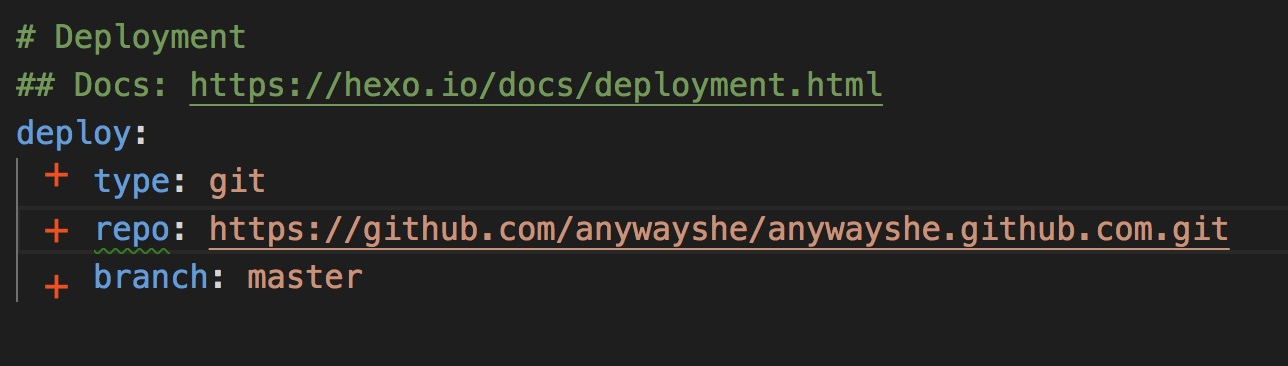
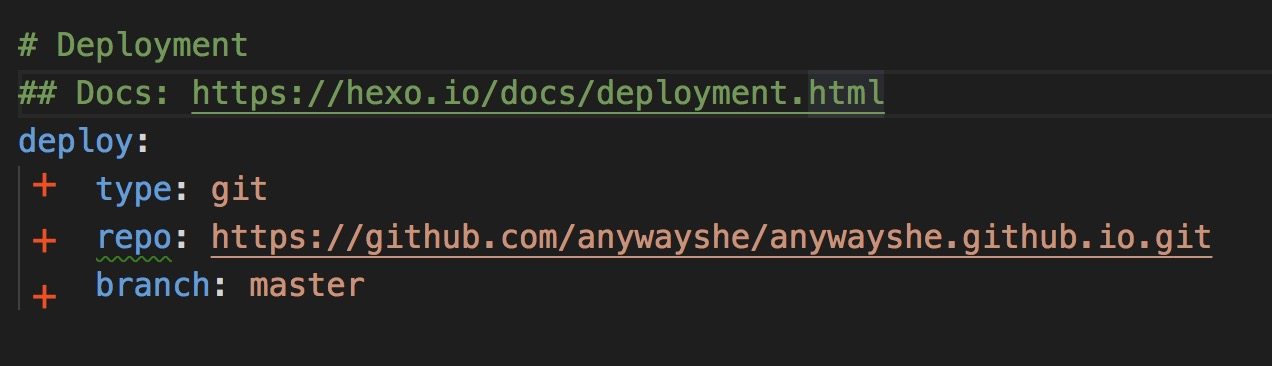
Site updated: 2019-07-09 14:42:01

diff --git a/2019/07/08/First/index.html b/2019/07/08/First/index.html
@@ -15,15 +15,13 @@
 <meta property="og:site_name" content="Hexo">
 <meta property="og:description" content="安装 Hexo1$ npm install -g hexo-cli  新建项目并启动 12345$ hexo init blog$ cd blog$ npm i$ hexo new &quot;我的第一篇博客&quot; // 新建markdown文件(source文件夹中的_post文件夹下)，编辑保存$ hexo s // hexo server 预览 本地访问localhost:4000  关联 github1">
 <meta property="og:locale" content="default">
-<meta property="og:image" content="http://yoursite.com/image/step1.jpg">
-<meta property="og:image" content="http://yoursite.com/image/step2.jpg">
 <meta property="og:image" content="http://yoursite.com/image/step3.jpg">
 <meta property="og:image" content="http://yoursite.com/image/step4.jpg">
-<meta property="og:updated_time" content="2019-07-09T02:12:16.100Z">
+<meta property="og:updated_time" content="2019-07-09T06:38:32.957Z">
 <meta name="twitter:card" content="summary">
 <meta name="twitter:title" content="GitHub+Hexo 搭建个人网站">
 <meta name="twitter:description" content="安装 Hexo1$ npm install -g hexo-cli  新建项目并启动 12345$ hexo init blog$ cd blog$ npm i$ hexo new &quot;我的第一篇博客&quot; // 新建markdown文件(source文件夹中的_post文件夹下)，编辑保存$ hexo s // hexo server 预览 本地访问localhost:4000  关联 github1">
-<meta name="twitter:image" content="http://yoursite.com/image/step1.jpg">
+<meta name="twitter:image" content="http://yoursite.com/image/step3.jpg">
   
     <link rel="alternative" href="/atom.xml" title="Hexo" type="application/atom+xml">
   
@@ -178,10 +176,9 @@
 <p>新建项目并启动</p>
 <figure class="highlight bash"><table><tr><td class="gutter"><pre><span class="line">1</span><br><span class="line">2</span><br><span class="line">3</span><br><span class="line">4</span><br><span class="line">5</span><br></pre></td><td class="code"><pre><span class="line">$ hexo init blog</span><br><span class="line">$ <span class="built_in">cd</span> blog</span><br><span class="line">$ npm i</span><br><span class="line">$ hexo new <span class="string">"我的第一篇博客"</span> // 新建markdown文件(<span class="built_in">source</span>文件夹中的_post文件夹下)，编辑保存</span><br><span class="line">$ hexo s // hexo server 预览 本地访问localhost:4000</span><br></pre></td></tr></table></figure>
 
-<h2 id="关联-github"><a href="#关联-github" class="headerlink" title="关联 github"></a>关联 github</h2><p>1、新建 GitHub 项目，命名 username.github.io, username 为你 Github 的用户名</p>
-<p><img src="/image/step1.jpg" alt="avatar"></p>
+<h2 id="关联-github"><a href="#关联-github" class="headerlink" title="关联 github"></a>关联 github</h2><p>1、新建 GitHub 项目，命名 username.github.io, username 为你 Github 的用户名，如 anywayshe.github.io<br>注：<font color="#FFD700">github 创建静态博客只能按照命名规则，且只有一个</font></p>
 <hr>
-<p><img src="/image/step2.jpg" alt="avatar"></p>
+<p>创建成功项目地址：<a href="https://github.com/anywayshe/anywayshe.github.io.git" target="_blank" rel="noopener">https://github.com/anywayshe/anywayshe.github.io.git</a></p>
 <p>2、安装 git 部署插件</p>
 <figure class="highlight bash"><table><tr><td class="gutter"><pre><span class="line">1</span><br></pre></td><td class="code"><pre><span class="line">$ npm install hexo-deployer-git --save</span><br></pre></td></tr></table></figure>
 
@@ -191,12 +188,18 @@
 <figure class="highlight bash"><table><tr><td class="gutter"><pre><span class="line">1</span><br><span class="line">2</span><br><span class="line">3</span><br></pre></td><td class="code"><pre><span class="line">$ haxo clean // 清除缓存文件 (db.json) 和已生成的静态文件 (public)</span><br><span class="line">$ haxo g // hexo generate 生成静态文件</span><br><span class="line">$ haxo d // hexo deploy 部署网站</span><br></pre></td></tr></table></figure>
 
 <p>5、访问网站</p>
-<p><a href="https://anywayshe.github.cn/#" target="_blank" rel="noopener">https://anywayshe.github.cn/#</a> // 新建项目的名字，有延迟，多刷几遍</p>
+<p>可以先刷新你的 github 仓库，看到本地代码已上传</p>
+<p><a href="https://anywayshe.github.io/#" target="_blank" rel="noopener">https://anywayshe.github.io/#</a> // 新建项目的名字，有延迟，多刷几遍</p>
 <p>6、切换主题</p>
 <p>以 yilia 为例</p>
 <figure class="highlight bash"><table><tr><td class="gutter"><pre><span class="line">1</span><br></pre></td><td class="code"><pre><span class="line">$ git <span class="built_in">clone</span> https://github.com/litten/hexo-theme-yilia.git themes/yilia // 克隆到themes文件夹，名为yilia</span><br></pre></td></tr></table></figure>
 
 <p>更改配置文件_config.yml<br><img src="/image/step4.jpg" alt="avatar"></p>
+<p>7、部署</p>
+<figure class="highlight bash"><table><tr><td class="gutter"><pre><span class="line">1</span><br><span class="line">2</span><br><span class="line">3</span><br></pre></td><td class="code"><pre><span class="line">$ haxo clean // 清除缓存文件 (db.json) 和已生成的静态文件 (public)</span><br><span class="line">$ haxo g // hexo generate 生成静态文件</span><br><span class="line">$ haxo d // hexo deploy 部署网站</span><br></pre></td></tr></table></figure>
+
+<p>8、刷新访问 ok</p>
+<p><a href="https://anywayshe.github.io/#" target="_blank" rel="noopener">https://anywayshe.github.io/#</a></p>
 
       
 

diff --git a/index.html b/index.html
@@ -171,10 +171,9 @@
 <p>新建项目并启动</p>
 <figure class="highlight bash"><table><tr><td class="gutter"><pre><span class="line">1</span><br><span class="line">2</span><br><span class="line">3</span><br><span class="line">4</span><br><span class="line">5</span><br></pre></td><td class="code"><pre><span class="line">$ hexo init blog</span><br><span class="line">$ <span class="built_in">cd</span> blog</span><br><span class="line">$ npm i</span><br><span class="line">$ hexo new <span class="string">"我的第一篇博客"</span> // 新建markdown文件(<span class="built_in">source</span>文件夹中的_post文件夹下)，编辑保存</span><br><span class="line">$ hexo s // hexo server 预览 本地访问localhost:4000</span><br></pre></td></tr></table></figure>
 
-<h2 id="关联-github"><a href="#关联-github" class="headerlink" title="关联 github"></a>关联 github</h2><p>1、新建 GitHub 项目，命名 username.github.io, username 为你 Github 的用户名</p>
-<p><img src="/image/step1.jpg" alt="avatar"></p>
+<h2 id="关联-github"><a href="#关联-github" class="headerlink" title="关联 github"></a>关联 github</h2><p>1、新建 GitHub 项目，命名 username.github.io, username 为你 Github 的用户名，如 anywayshe.github.io<br>注：<font color="#FFD700">github 创建静态博客只能按照命名规则，且只有一个</font></p>
 <hr>
-<p><img src="/image/step2.jpg" alt="avatar"></p>
+<p>创建成功项目地址：<a href="https://github.com/anywayshe/anywayshe.github.io.git" target="_blank" rel="noopener">https://github.com/anywayshe/anywayshe.github.io.git</a></p>
 <p>2、安装 git 部署插件</p>
 <figure class="highlight bash"><table><tr><td class="gutter"><pre><span class="line">1</span><br></pre></td><td class="code"><pre><span class="line">$ npm install hexo-deployer-git --save</span><br></pre></td></tr></table></figure>
 
@@ -184,12 +183,18 @@
 <figure class="highlight bash"><table><tr><td class="gutter"><pre><span class="line">1</span><br><span class="line">2</span><br><span class="line">3</span><br></pre></td><td class="code"><pre><span class="line">$ haxo clean // 清除缓存文件 (db.json) 和已生成的静态文件 (public)</span><br><span class="line">$ haxo g // hexo generate 生成静态文件</span><br><span class="line">$ haxo d // hexo deploy 部署网站</span><br></pre></td></tr></table></figure>
 
 <p>5、访问网站</p>
-<p><a href="https://anywayshe.github.cn/#" target="_blank" rel="noopener">https://anywayshe.github.cn/#</a> // 新建项目的名字，有延迟，多刷几遍</p>
+<p>可以先刷新你的 github 仓库，看到本地代码已上传</p>
+<p><a href="https://anywayshe.github.io/#" target="_blank" rel="noopener">https://anywayshe.github.io/#</a> // 新建项目的名字，有延迟，多刷几遍</p>
 <p>6、切换主题</p>
 <p>以 yilia 为例</p>
 <figure class="highlight bash"><table><tr><td class="gutter"><pre><span class="line">1</span><br></pre></td><td class="code"><pre><span class="line">$ git <span class="built_in">clone</span> https://github.com/litten/hexo-theme-yilia.git themes/yilia // 克隆到themes文件夹，名为yilia</span><br></pre></td></tr></table></figure>
 
 <p>更改配置文件_config.yml<br><img src="/image/step4.jpg" alt="avatar"></p>
+<p>7、部署</p>
+<figure class="highlight bash"><table><tr><td class="gutter"><pre><span class="line">1</span><br><span class="line">2</span><br><span class="line">3</span><br></pre></td><td class="code"><pre><span class="line">$ haxo clean // 清除缓存文件 (db.json) 和已生成的静态文件 (public)</span><br><span class="line">$ haxo g // hexo generate 生成静态文件</span><br><span class="line">$ haxo d // hexo deploy 部署网站</span><br></pre></td></tr></table></figure>
+
+<p>8、刷新访问 ok</p>
+<p><a href="https://anywayshe.github.io/#" target="_blank" rel="noopener">https://anywayshe.github.io/#</a></p>
 
       
 
